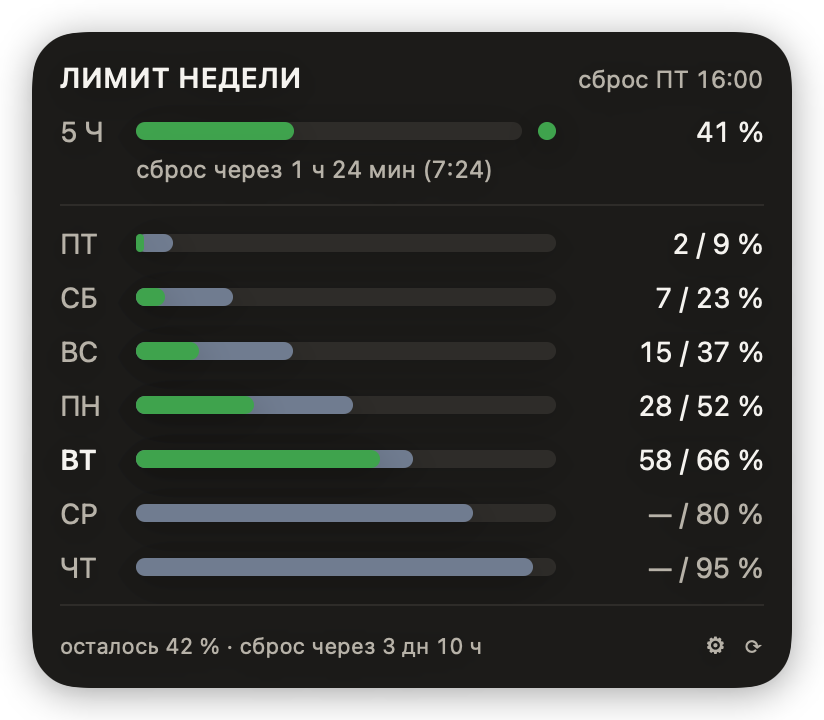
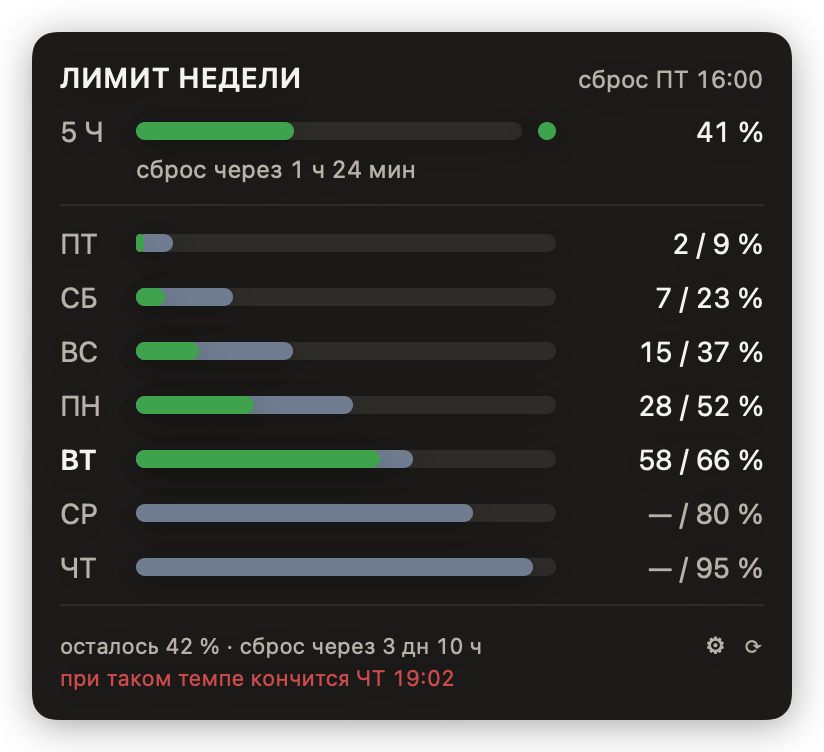
Снимал картинки README заводским видом, а не своим

diff --git a/Sources/ClaudeWeekApp/Screenshot.swift b/Sources/ClaudeWeekApp/Screenshot.swift
@@ -32,6 +32,15 @@ enum Screenshot {
             .addingTimeInterval(6 * 3600)
 
         var config = config
+        // Картинки идут в README, и выглядеть они должны одинаково, чей бы
+        // конфиг ни лежал рядом: у автора может стоять компактная панель,
+        // своя палитра и свои пороги — в документации это читалось бы как
+        // поведение программы. Вид и пороги берём заводские, окно недели и
+        // рабочий день оставляем из конфига: от них зависят подписи строк.
+        config.appearance = AppearanceConfig()
+        config.thresholds = Thresholds()
+        // Материал строки меню в оффскрин-рендер не попадает — фон рисуем
+        // сплошным цветом палитры.
         config.appearance.transparentPanel = false
         let model = PanelModel(config: config)
         model.apply(demoSnapshot(config: config, now: now), at: now)

diff --git a/docs/ROADMAP.md b/docs/ROADMAP.md
@@ -282,6 +282,7 @@ ClaudeWeekTests`) на `macos-latest`.
 | счётчик проверок в документации (`README.md`, `ARCHITECTURE.md`) отставал от факта — 247 вместо 299 | приведён к актуальному числу |
 | рабочий день в `WorkHours.seconds` строился прибавлением часов к полуночи, и в сутки перевода часов съезжал: осенью план начинал расти в 10:00, весной в 12:00 | границы дня ищутся по циферблату (`date(bySettingHour:)`), сутки перевода весят столько же, сколько обычные; покрыто проверками в обе стороны |
 | `Formatting.age` («3 мин назад») никем не вызывался с тех пор, как панель перешла на «данные online / offline», но жил и тестировался | убран вместе с проверками |
+| `--screenshot` рисовал картинки для README личными настройками автора: свёрнутая панель, чужая палитра и пороги выглядели бы как поведение программы | вид и пороги на снимках заводские, окно недели и рабочий день — из конфига |
 | окно настроек создавалось один раз за запуск и правки `config.json`, сделанные руками, не подхватывало: второй показ выкладывал старые значения, а первый же ползунок затирал ими файл | конфиг принимается окном при каждом показе и при перечитывании файла (`SettingsModel.adopt`) |
 | комментарии и документация обещали то, чего в панели нет: возраст данных в подсказке кружка, «темп 1.2×» в футере, план на середину суток, несохраняемое округление `resets_at` | приведены к тому, что делает код |
 | `PLAN.md` отстал от кода сильнее прочих: план по рабочим часам не описан вовсе, `resetHour` в примере конфига остался 15, дерево без `WorkHours`, `SourceDot` и `MenuBarRing`, счётчик проверок 212 | разделы 2.2, 2.4, 4.1, 5.1, 5.5, 6 и 8 приведены к факту |

diff --git a/README.md b/README.md
@@ -11,11 +11,14 @@
   <img src="docs/images/panel-light.png" width="380" alt="Панель недели, светлая тема">
 </p>
 
-Иконка в строке меню — полоса недели и процент под ней, всего ~28 pt ширины:
+Иконка в строке меню — полоса недели и процент под ней, всего ~28 pt ширины;
+в настройках вместо полосы можно поставить кольцо:
 
 <p align="center">
-  <img src="docs/images/menubar-dark.png" width="150" alt="Иконка в тёмной строке меню">
-  <img src="docs/images/menubar-light.png" width="150" alt="Иконка в светлой строке меню">
+  <img src="docs/images/menubar-dark.png" width="130" alt="Иконка в тёмной строке меню">
+  <img src="docs/images/menubar-light.png" width="130" alt="Иконка в светлой строке меню">
+  <img src="docs/images/menubar-ring-dark.png" width="80" alt="Кольцо в тёмной строке меню">
+  <img src="docs/images/menubar-ring-light.png" width="80" alt="Кольцо в светлой строке меню">
 </p>
 
 Строки суток — **календарные**: они меняются в местную полночь, а не в час
@@ -226,7 +229,8 @@ Claude Code из Keychain (запись `Claude Code-credentials`) и потом
 
 Все картинки в этом README рисует сама программа:
 `ClaudeWeek --screenshot docs/images` — панель во всех темах и обоих системных
-оформлениях плюс иконка строки меню.
+оформлениях плюс обе иконки строки меню. Вид на них заводской, а не ваш: чужие
+пороги и свёрнутый ряд в документации читались бы как поведение программы.
 
 ---
 
